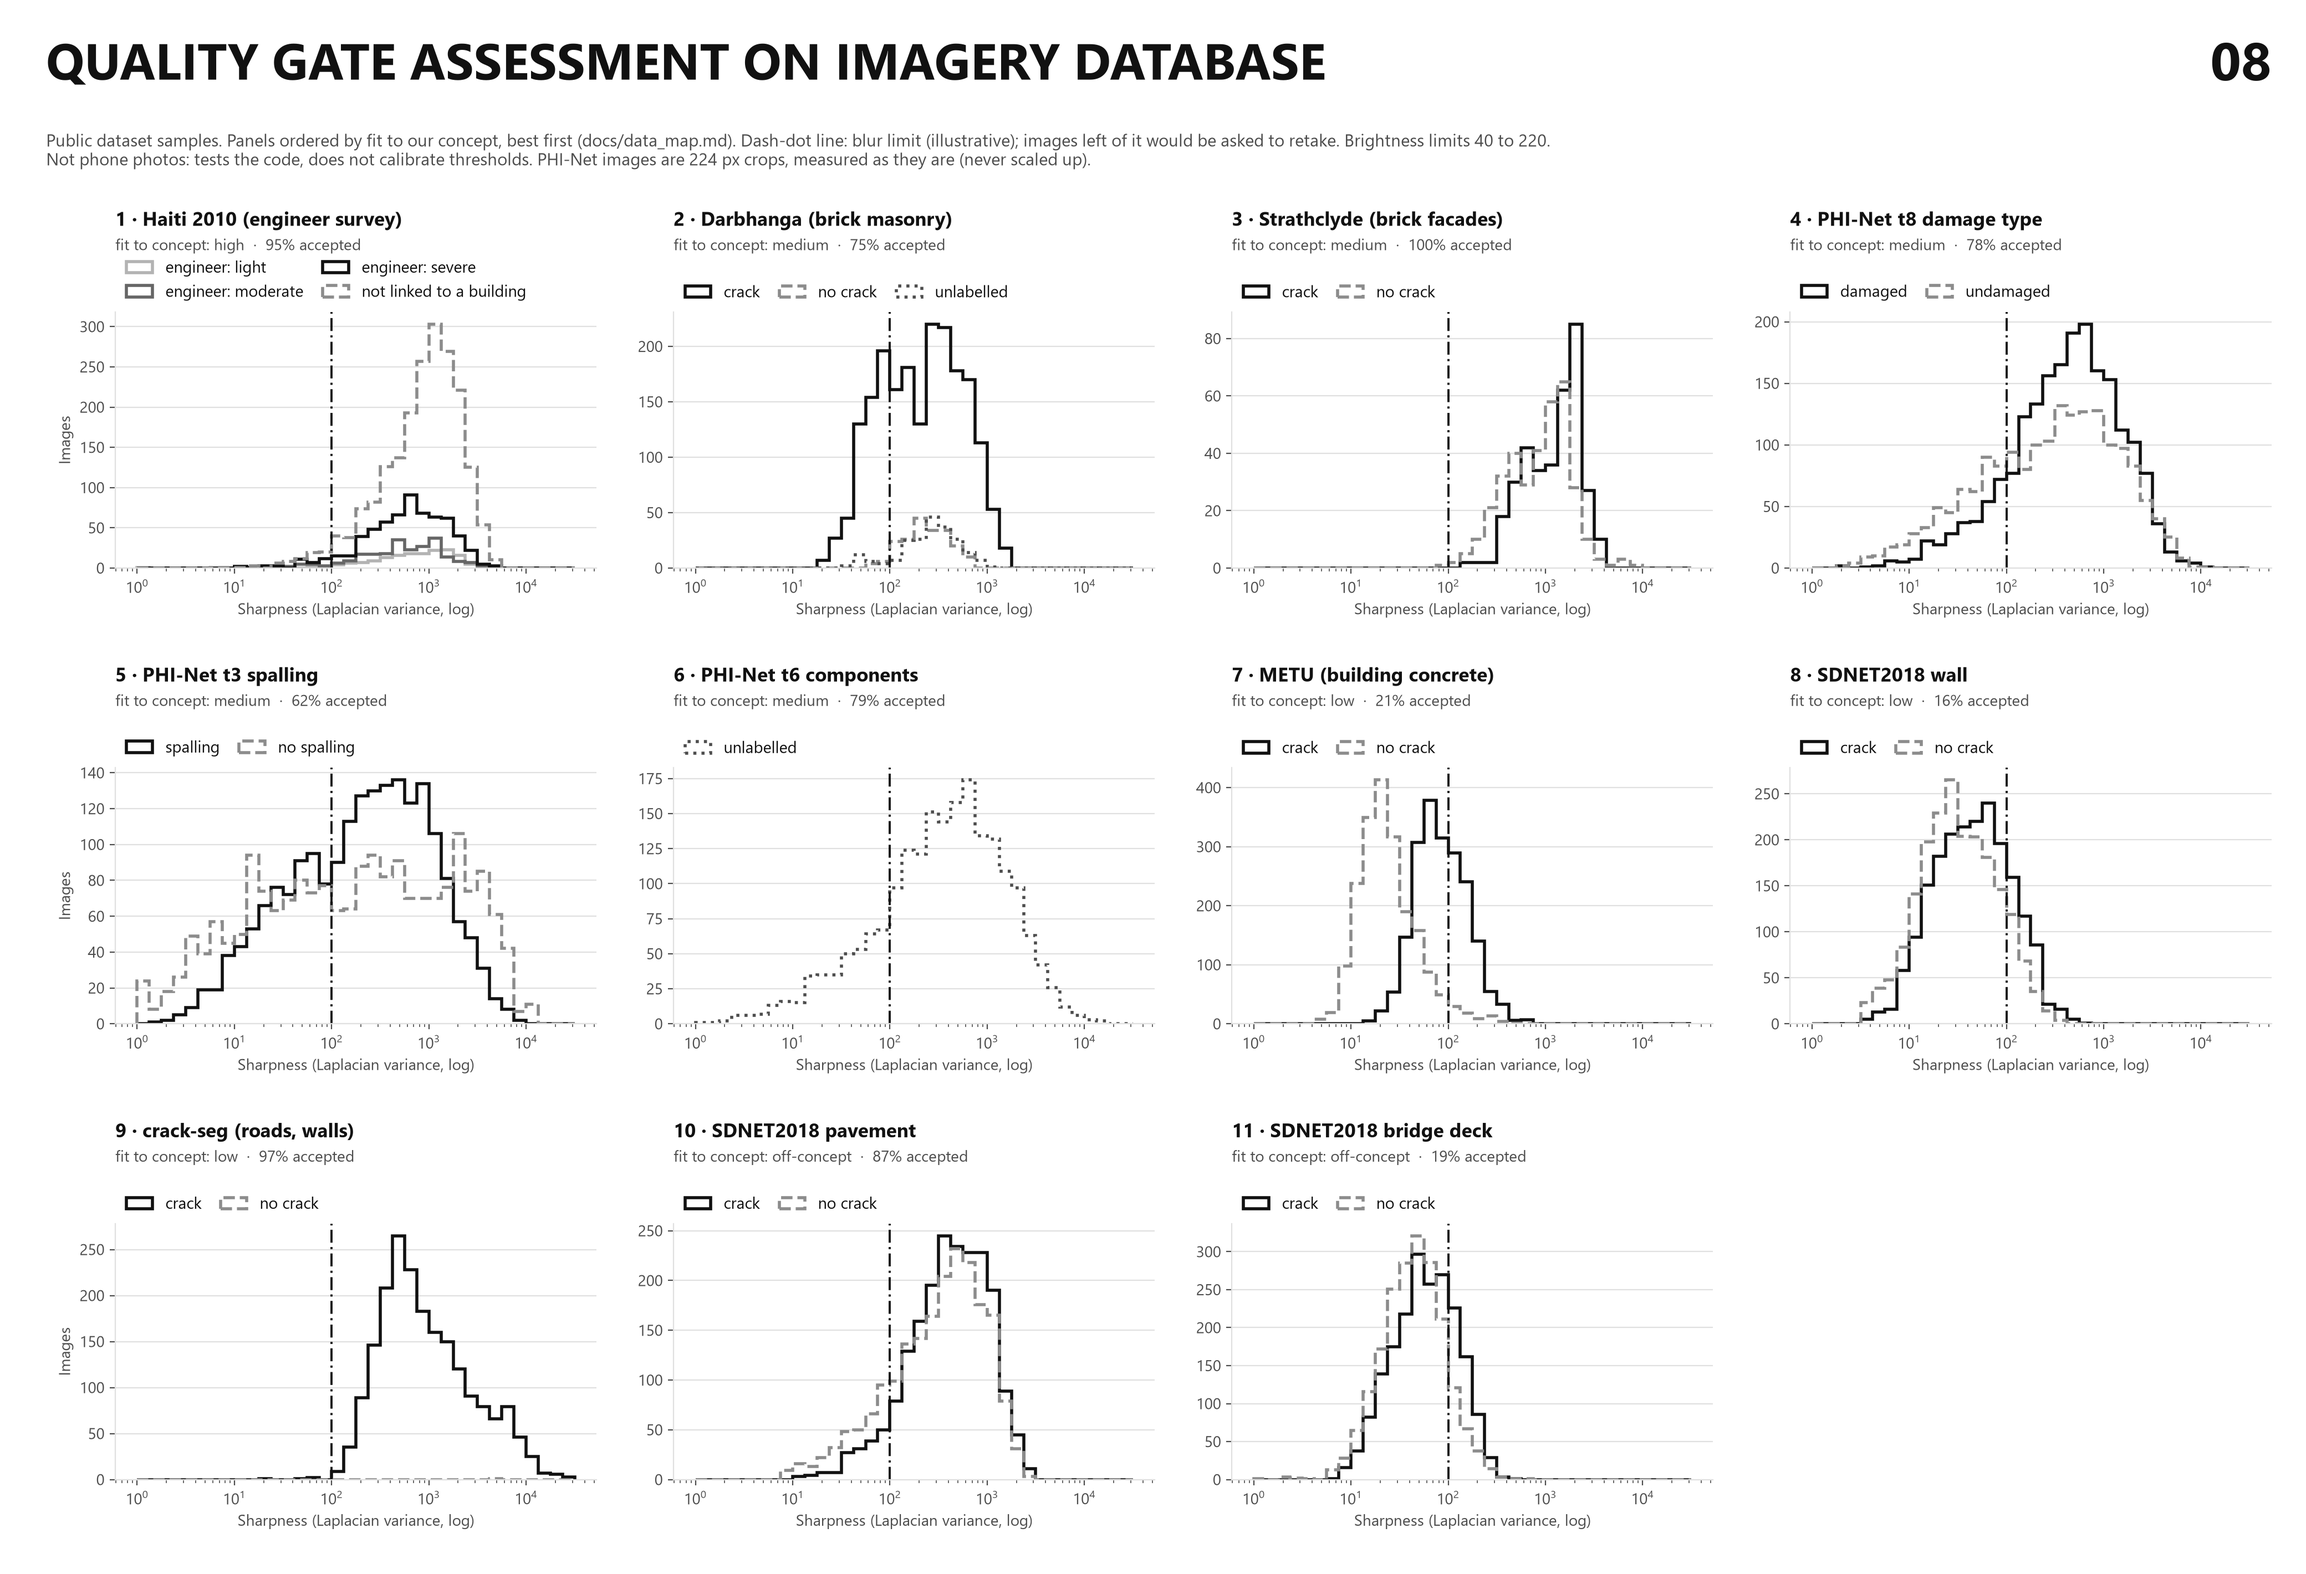
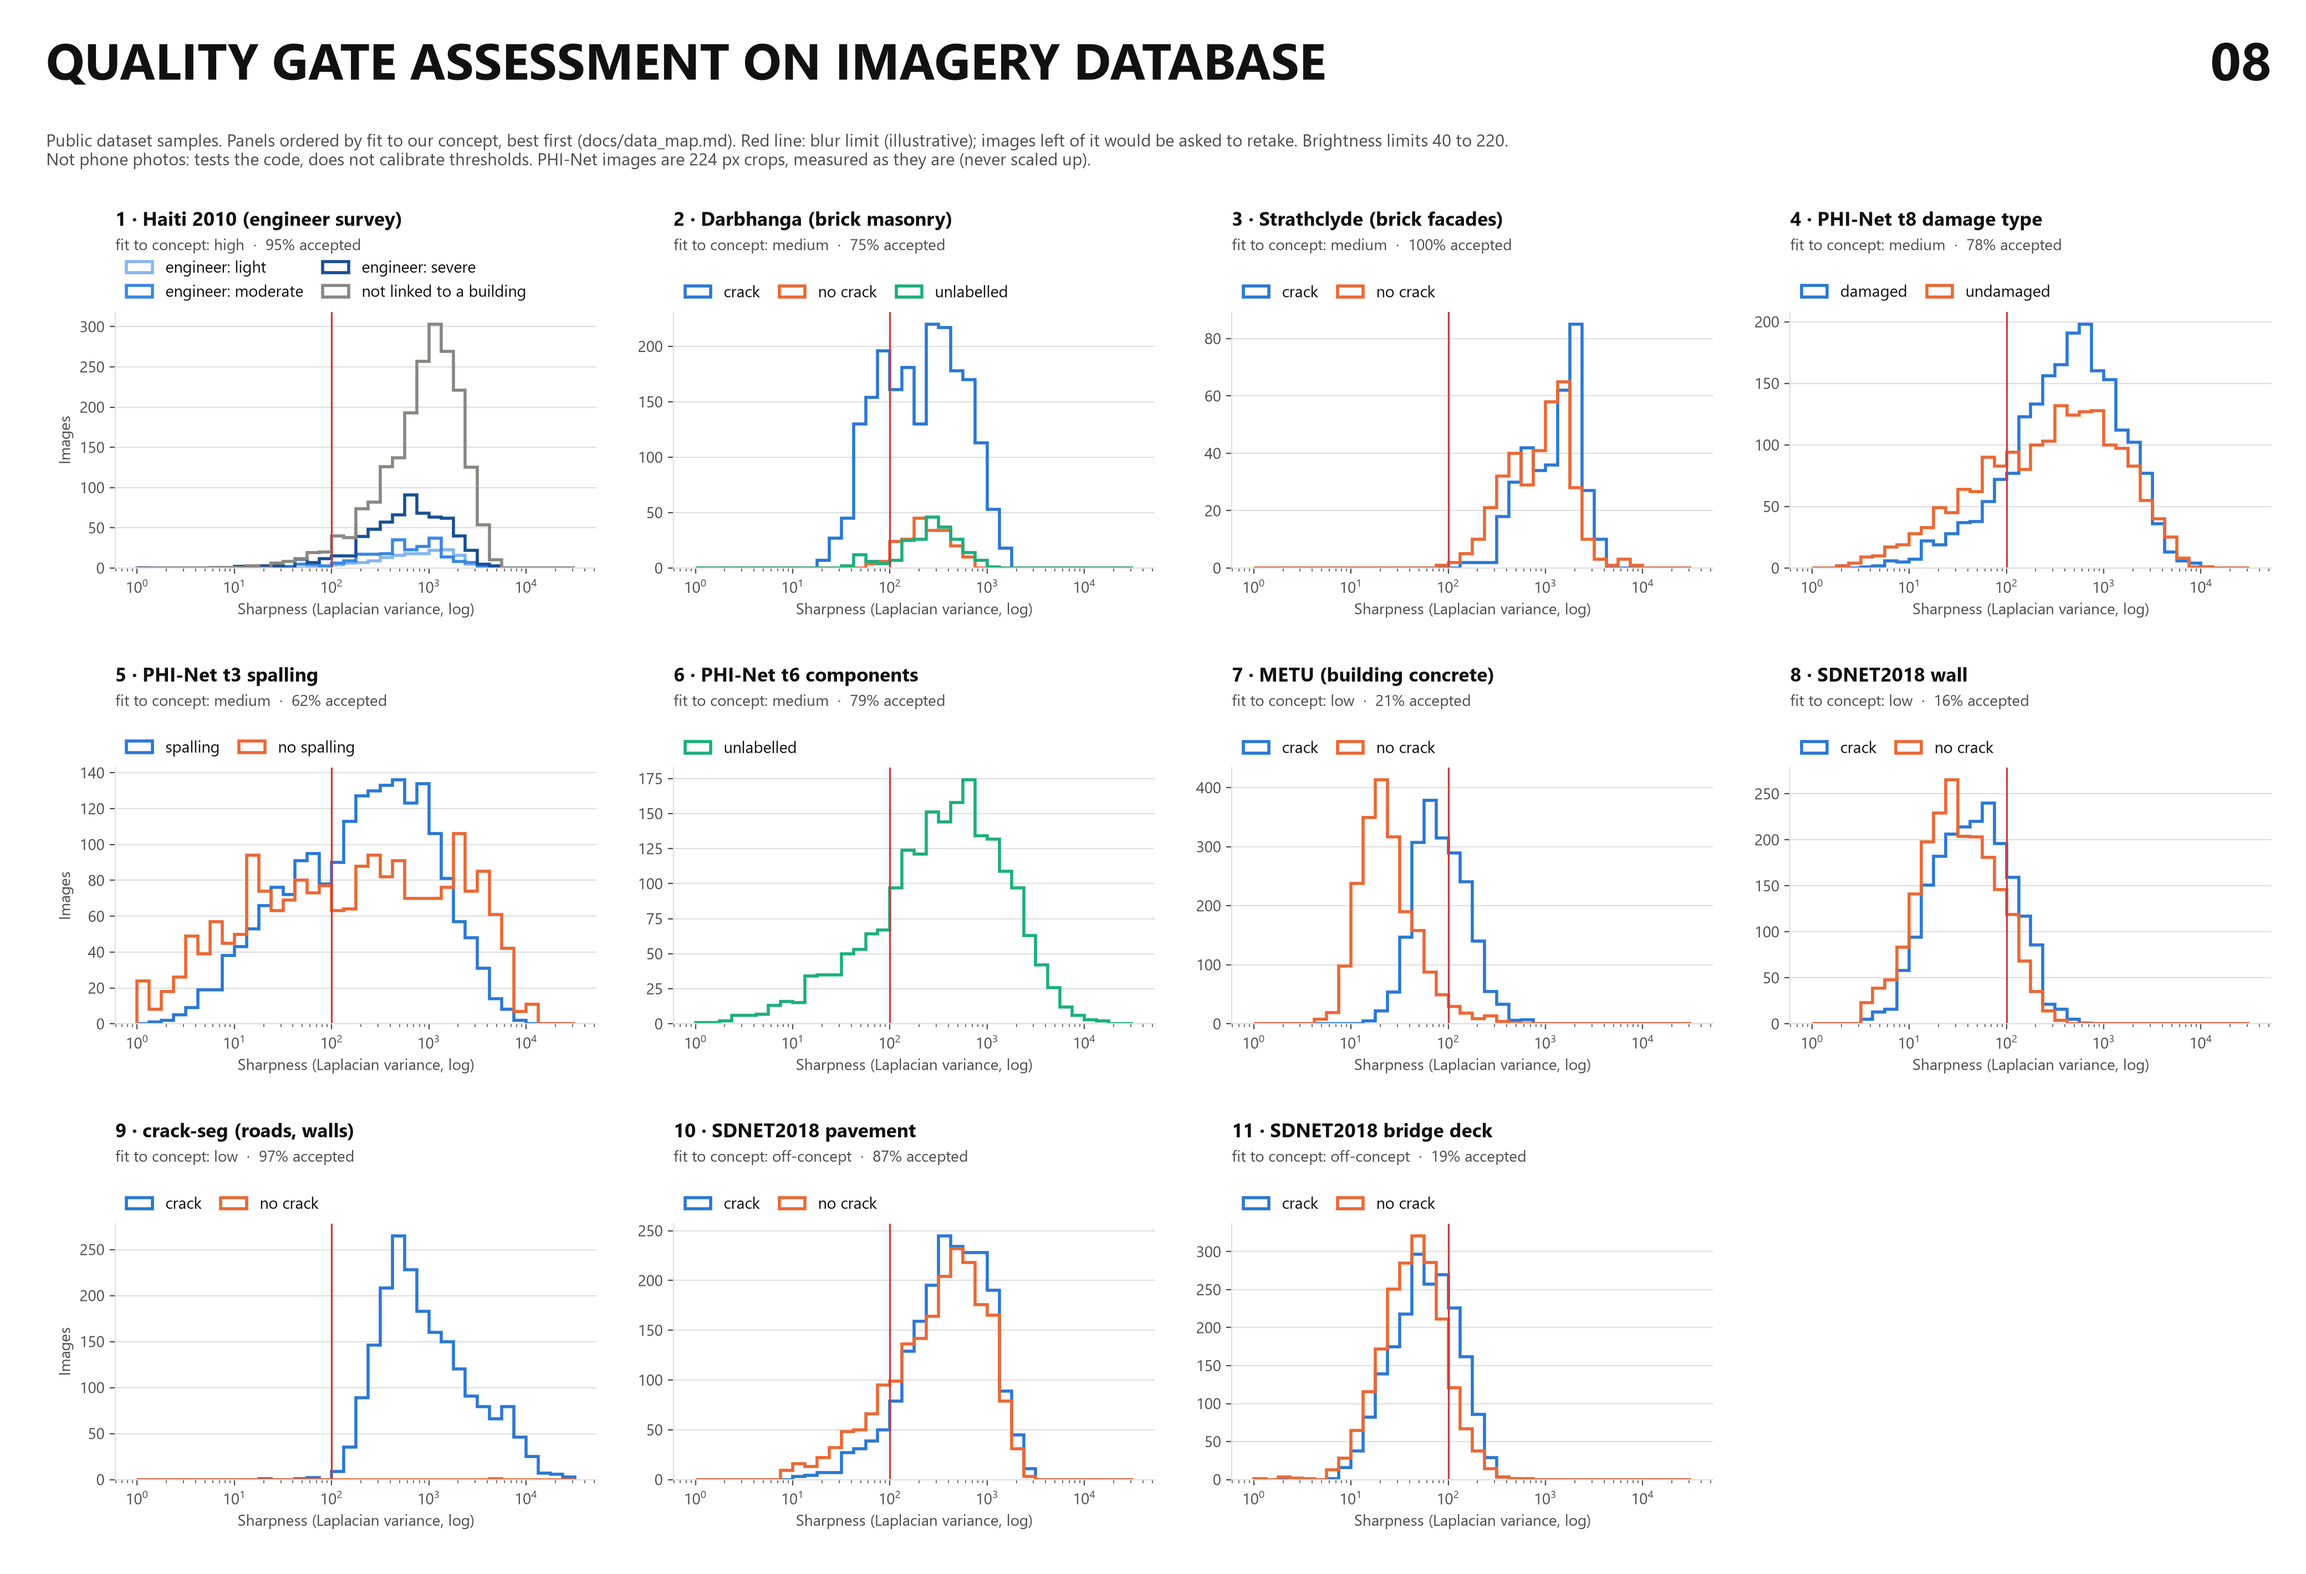
Figure 08 back in colour (exception to the grey rule); layout, title and legends kept

diff --git a/src/experiments/real_data_quality.py b/src/experiments/real_data_quality.py
@@ -186,19 +186,19 @@ def histogram(rows: list[dict], path: Path) -> None:
         ax.set_axis_off()
     bins = np.logspace(0, 4.5, 37)
     for ax, group in zip(axes.flat, groups):
-        for label, colour, ls in (("crack", "#111111", "-"), ("no crack", "#8c8c8c", "--"),
-                                  ("unlabelled", "#4d4d4d", ":"), ("engineer: light", "#b3b3b3", "-"),
-                                  ("engineer: moderate", "#666666", "-"), ("engineer: severe", "#111111", "-"),
-                                  ("not linked to a building", "#8c8c8c", "--"), ("damaged", "#111111", "-"),
-                                  ("undamaged", "#8c8c8c", "--"), ("spalling", "#111111", "-"),
-                                  ("no spalling", "#8c8c8c", "--")):  # black, white and greys; style tells them apart
+        # this figure keeps its colours (user's choice, 28 Oct 2026); all other figures are black, white and grey
+        for label, colour in (("crack", "#2a78d6"), ("no crack", "#eb6834"), ("unlabelled", "#1baf7a"),
+                              ("engineer: light", "#86b6ef"), ("engineer: moderate", "#3987e5"),
+                              ("engineer: severe", "#184f95"), ("not linked to a building", "#898781"),
+                              ("damaged", "#2a78d6"), ("undamaged", "#eb6834"), ("spalling", "#2a78d6"),
+                              ("no spalling", "#eb6834")):
             vals = [max(r["sharpness"], 1) for r in rows if r["group"] == group and r["label"] == label]
             if vals:
-                ax.hist(vals, bins=bins, histtype="step", lw=2, color=colour, ls=ls, label=label)
+                ax.hist(vals, bins=bins, histtype="step", lw=2, color=colour, label=label)
         handles = ax.get_legend_handles_labels()[0]  # legend above the plot, never on the data
         ax.legend(frameon=False, fontsize=10.5, loc="lower left", bbox_to_anchor=(0, 1.0), borderaxespad=0.3,
                   ncol=2 if len(handles) > 3 else len(handles), handlelength=1.6, columnspacing=1.2)
-        ax.axvline(MIN_SHARPNESS, color="#111111", lw=1.4, ls=(0, (6, 2, 1, 2)))
+        ax.axvline(MIN_SHARPNESS, color="#d03b3b", lw=1.2)
         ax.set_xscale("log")
         members = [r for r in rows if r["group"] == group]
         accepted = sum(r["image_ok"] for r in members) / len(members)
@@ -219,7 +219,7 @@ def histogram(rows: list[dict], path: Path) -> None:
              ha="right")
     top = 1 - 1.75 / height
     fig.text(0.02, top + 0.015, f"Public dataset samples. Panels ordered by fit to our concept, best first (docs/data_map.md). "
-             f"Dash-dot line: blur limit (illustrative); images left of it would be asked to retake. Brightness limits "
+             f"Red line: blur limit (illustrative); images left of it would be asked to retake. Brightness limits "
              f"{MIN_BRIGHTNESS:g} to {MAX_BRIGHTNESS:g}.\nNot phone photos: tests the code, does not calibrate "
              "thresholds. PHI-Net images are 224 px crops, measured as they are (never scaled up).", fontsize=11, color=INK_2, va="bottom")
     fig.subplots_adjust(left=0.05, right=0.985, top=top - 0.075, bottom=0.06, wspace=0.16, hspace=0.78)

diff --git a/spec/features/figures.md b/spec/features/figures.md
@@ -20,7 +20,7 @@ Every figure is drawn from the repo's own rules and data map, so it changes when
 | `09_timeline.png` | Plan to the final presentation (17 Dec) with syllabus milestones and tasks at risk | `spec/constitution/roadmap.md` |
 | `10_dataset_comparison.png` | Every dataset on our disk side by side, in order of fit: images, quality gate pass rate, labels, what it trains, licence; one row per PHI-Net task | `docs/data_map.md`, sections 0 and 6; gate rates from `data/processed/real_data_quality.csv` |
 
-Colour rules: every figure uses black, white and greys only (28 Oct 2026); differences are also carried by labels, line styles or hatching, never by grey alone. Flow figures (01b, 01c, 02): white = photos and people, grey = written rules, black = learned models. Category 1 light, 2 mid grey, 3 black, always with the number. Only the real photos in 02b keep their own colours. Titles: bold capitals, 38 pt on a 24 in wide figure (scaled by width), figure number on the right (`_house_title` in `src/viz/figures.py`).
+Colour rules: every figure uses black, white and greys only (28 Oct 2026); differences are also carried by labels, line styles or hatching, never by grey alone. Flow figures (01b, 01c, 02): white = photos and people, grey = written rules, black = learned models. Category 1 light, 2 mid grey, 3 black, always with the number. Exceptions: the real photos in 02b keep their own colours, and 08 (quality gate histograms) stays in colour by the user's choice. Titles: bold capitals, 38 pt on a 24 in wide figure (scaled by width), figure number on the right (`_house_title` in `src/viz/figures.py`).
 
 When `docs/` changes, update the data constants in `figures.py` (TREE, COVERAGE, DATASETS, HELD, PLAN, MILESTONES) and rerun.
 Later, once engineer-labelled photos exist: a filled confusion matrix and the measured threshold curve (missed Category 3 vs referral rate).
